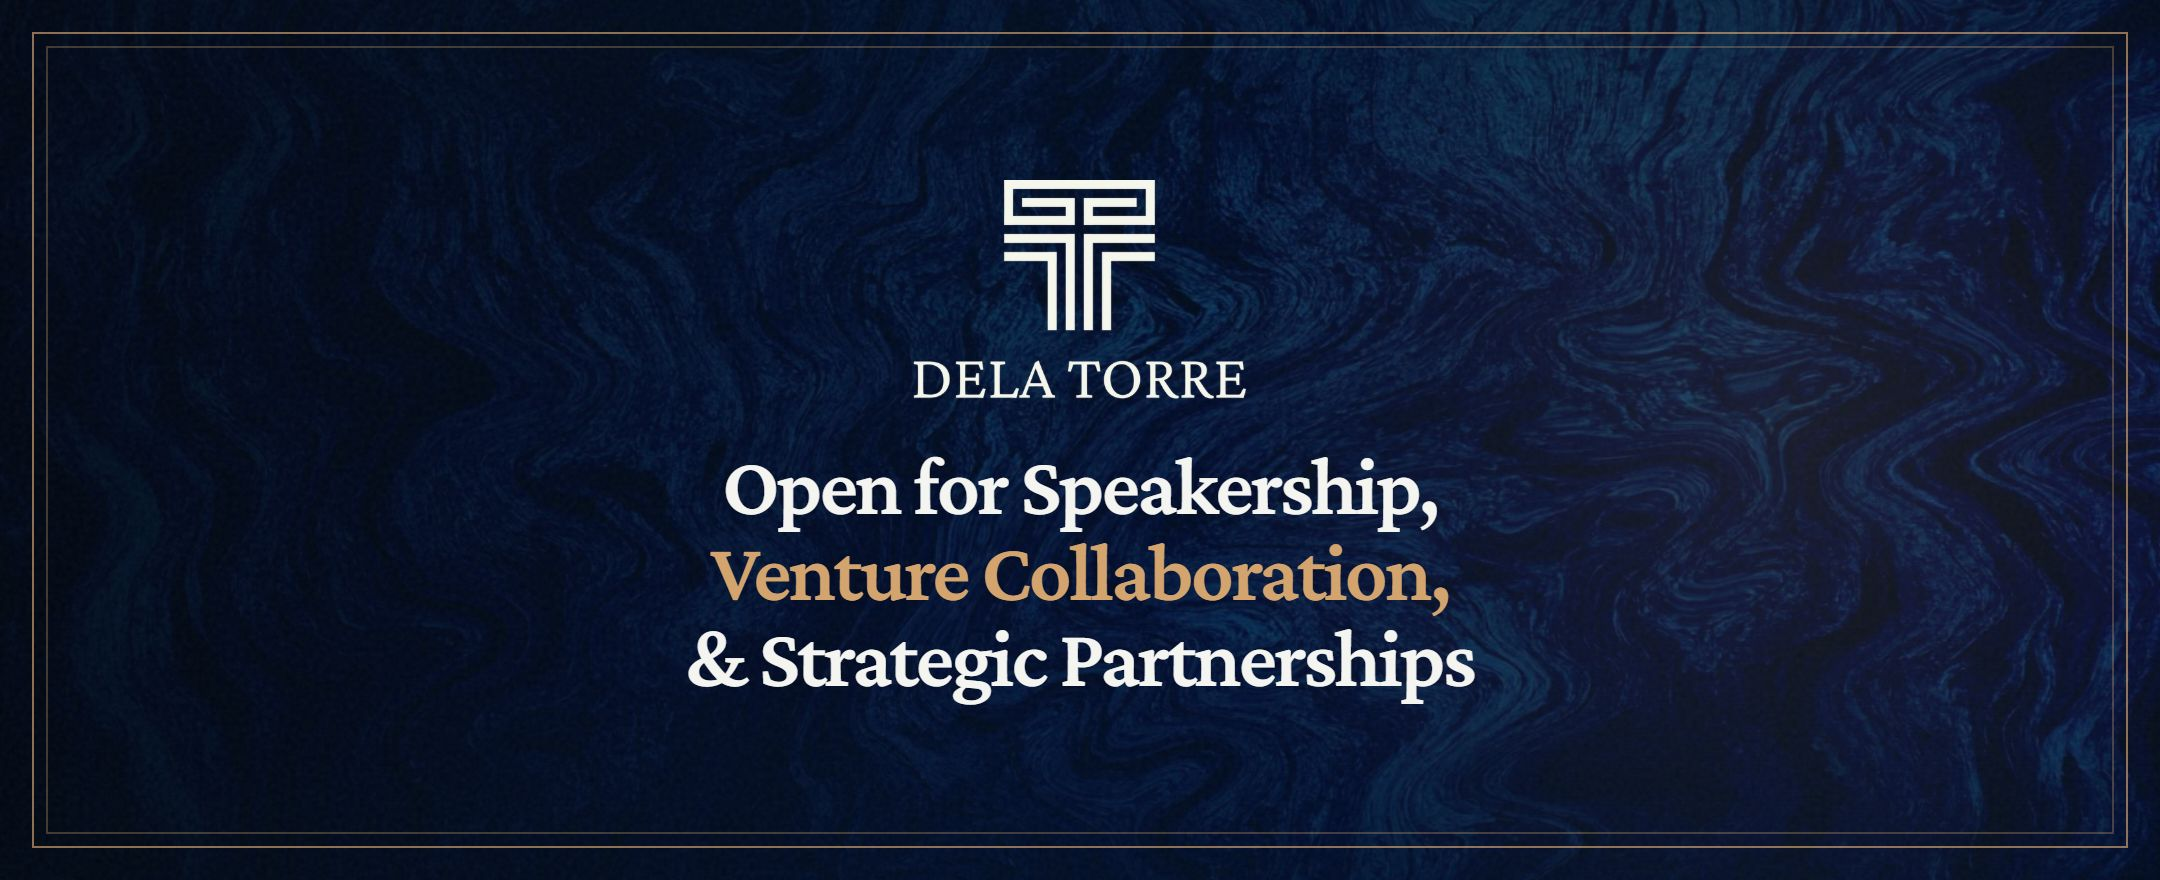
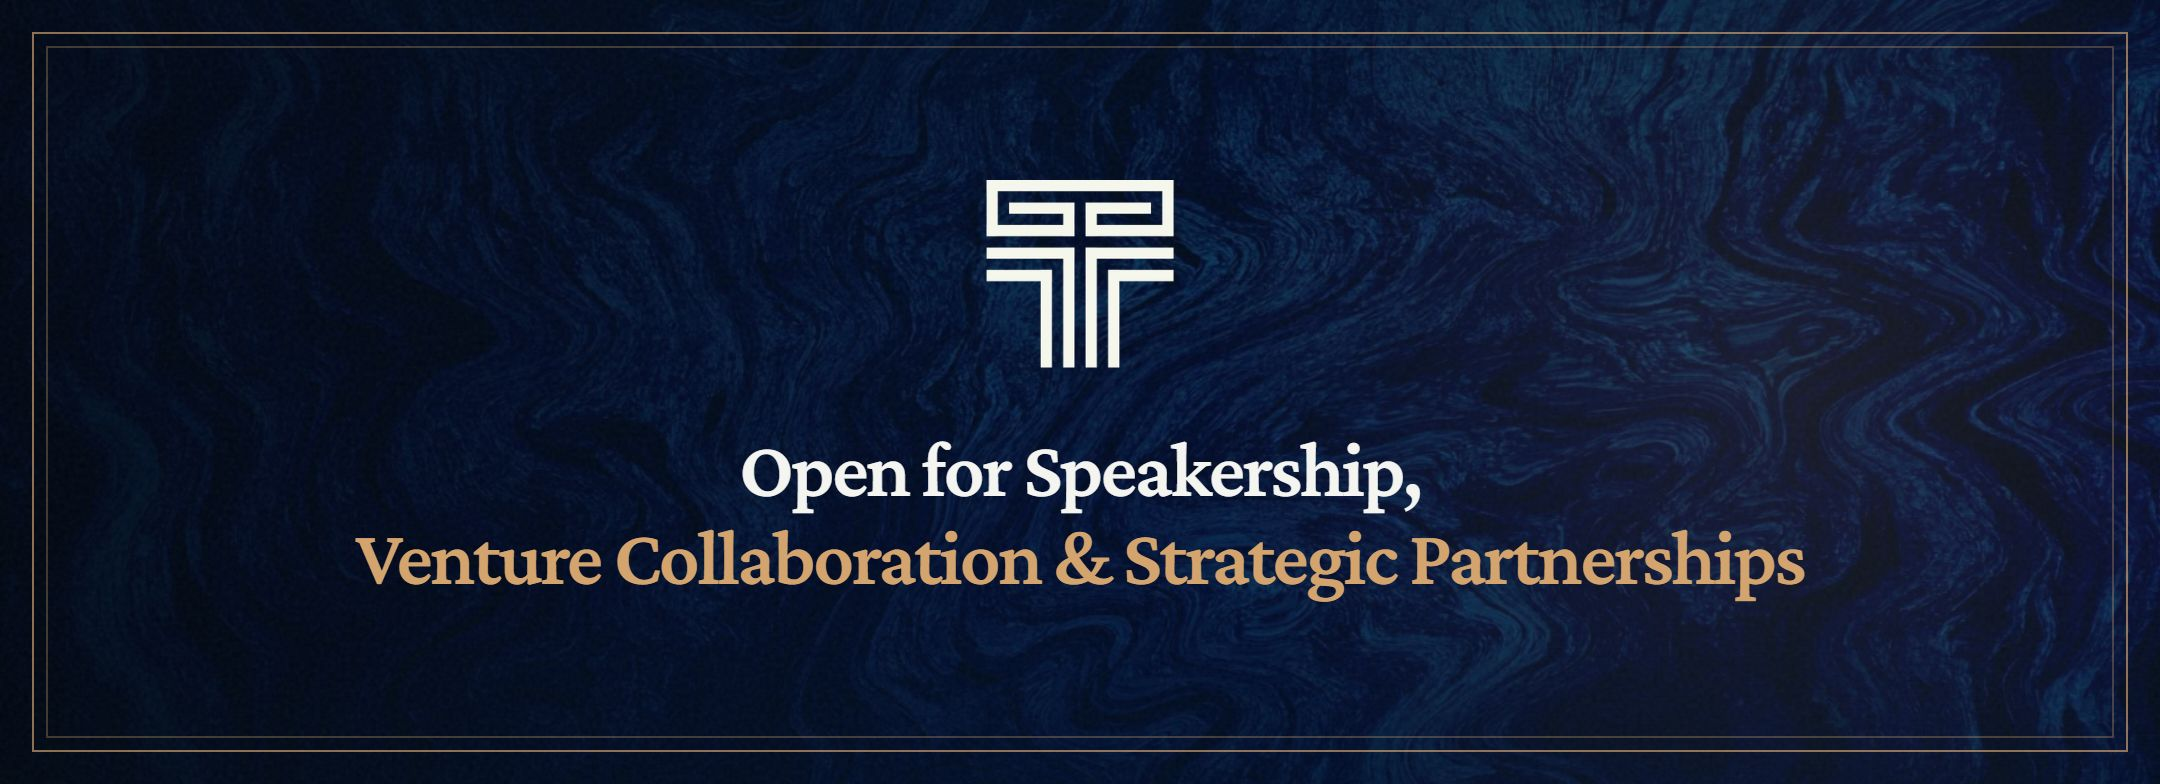
Set the close to the mark and a two-line offer.
The banner was carrying the wordmark and a third line the offer did not need.

diff --git a/README.md b/README.md
@@ -59,7 +59,7 @@ Nine hackathon titles. The latest is 2nd runner-up at [Camp Run 2026](https://ww
 - [Champion](https://www.linkedin.com/posts/delatorrecj_bpidatawave2025-bemorewithbpi-innovation-activity-7398251211604422656-qzZy), BPI DataWave 2025
 
 <p align="center">
-  <img src="assets/brand/cta.jpg" alt="Open for Speakership, Venture Collaboration, and Strategic Partnerships.">
+  <img src="assets/brand/cta.jpg" alt="Open for Speakership, Venture Collaboration and Strategic Partnerships.">
 </p>
 
 <p align="center">
